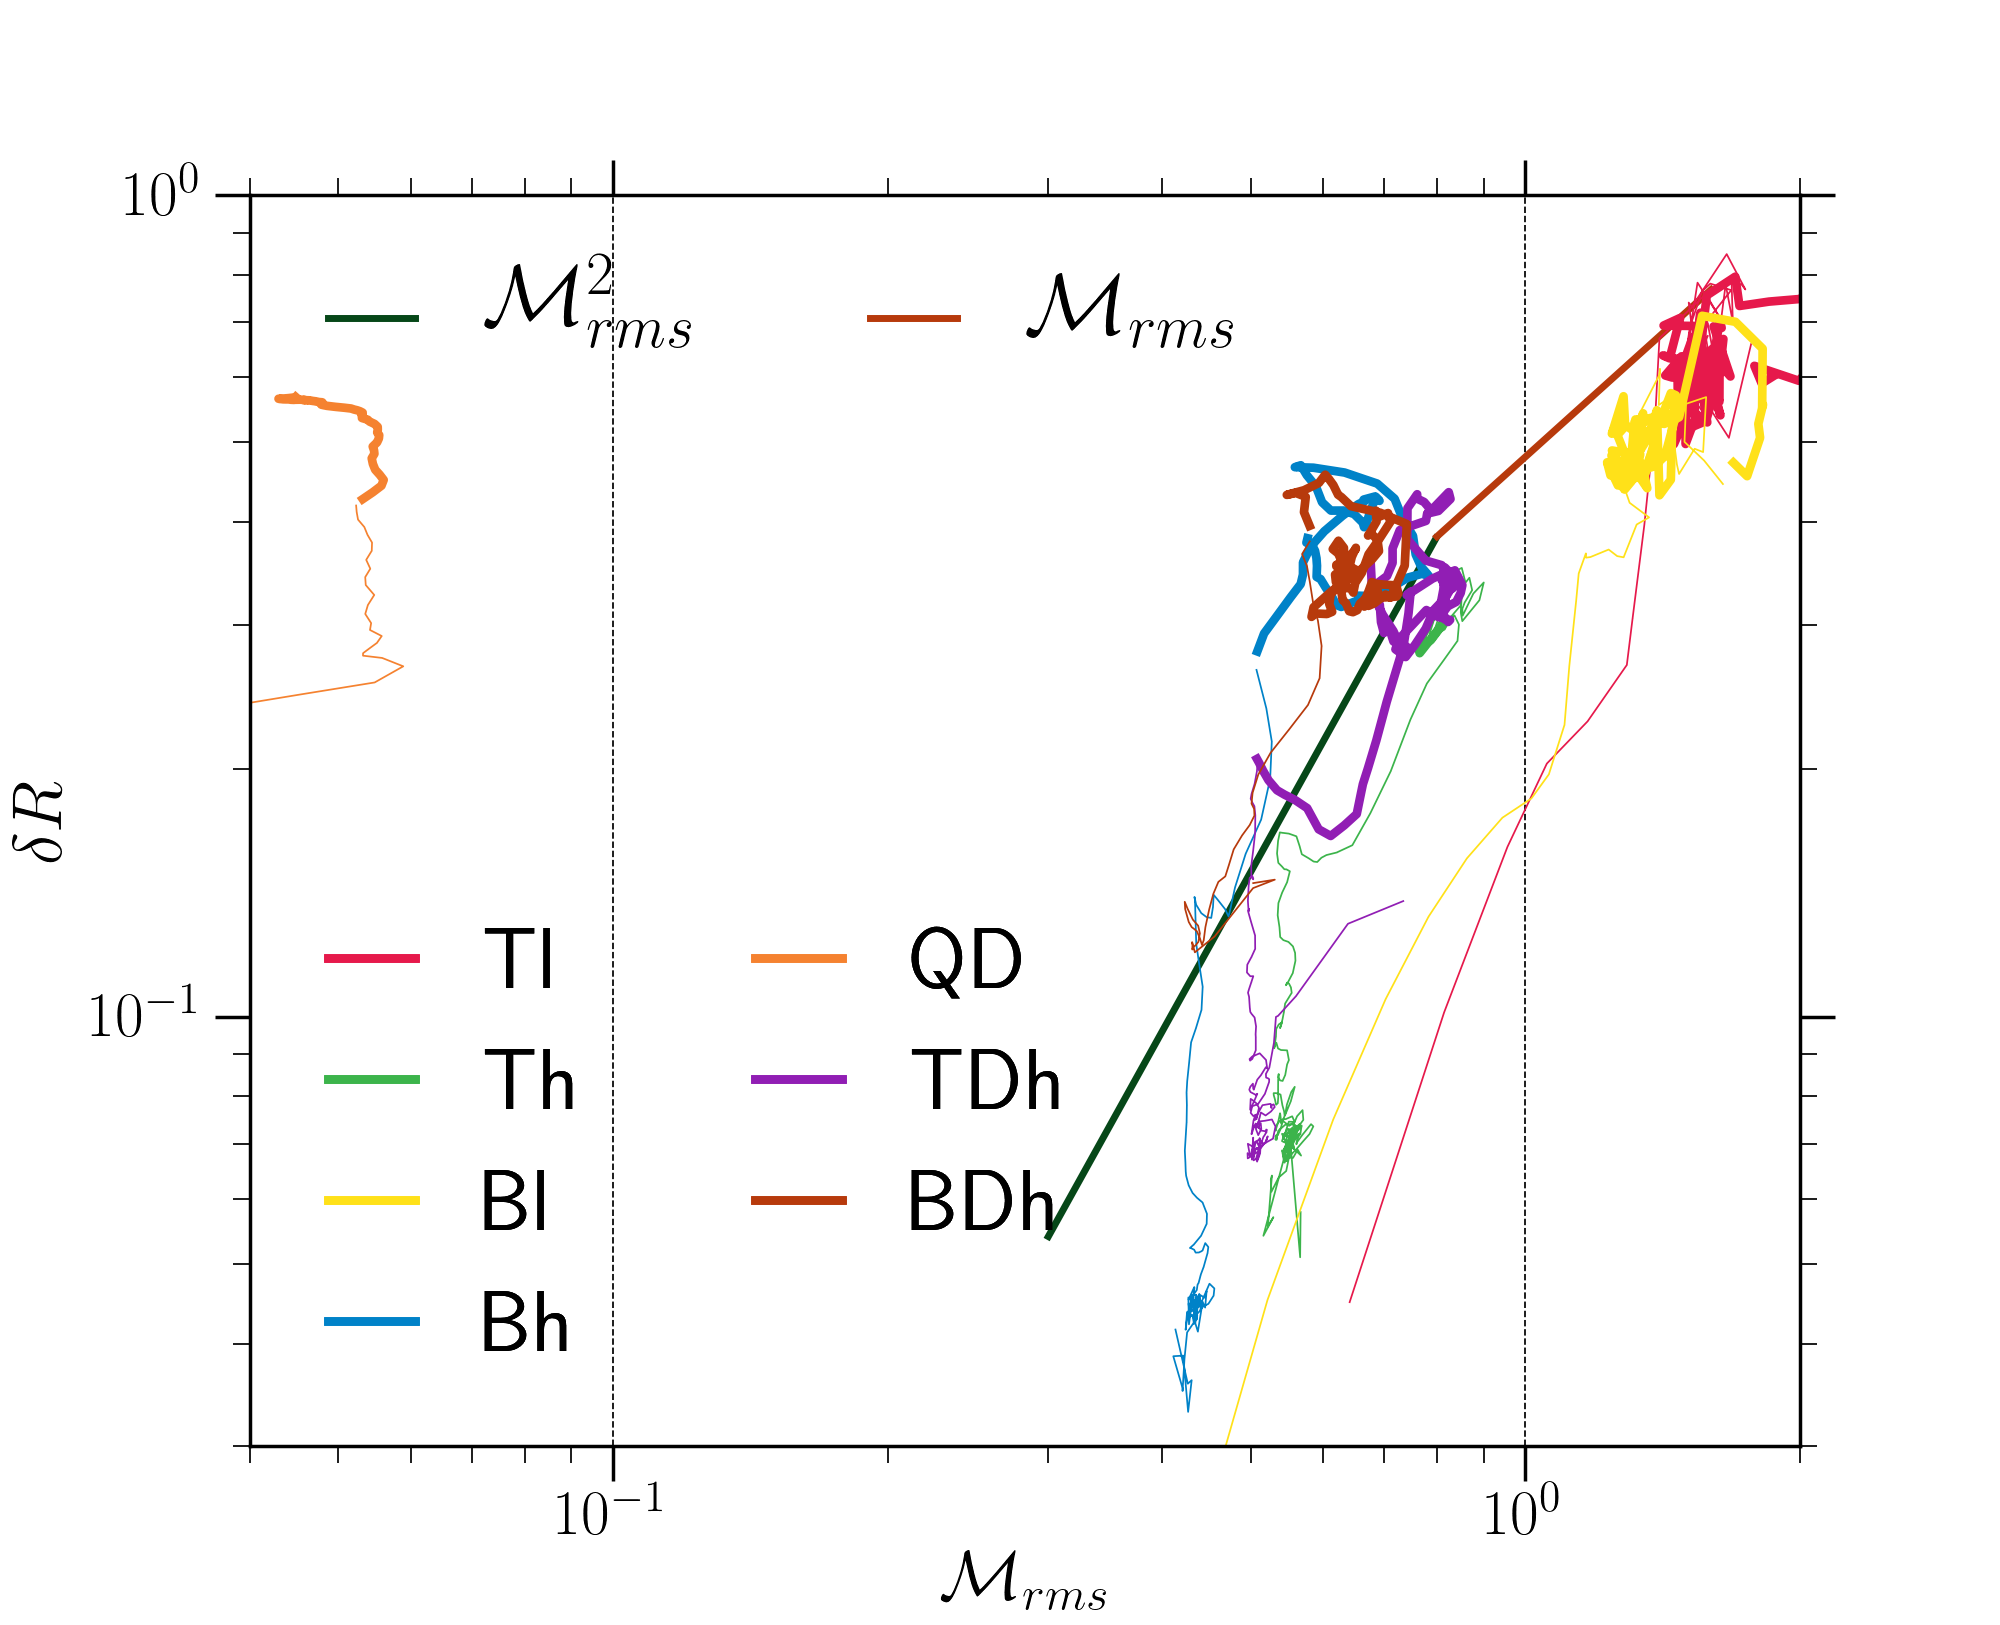
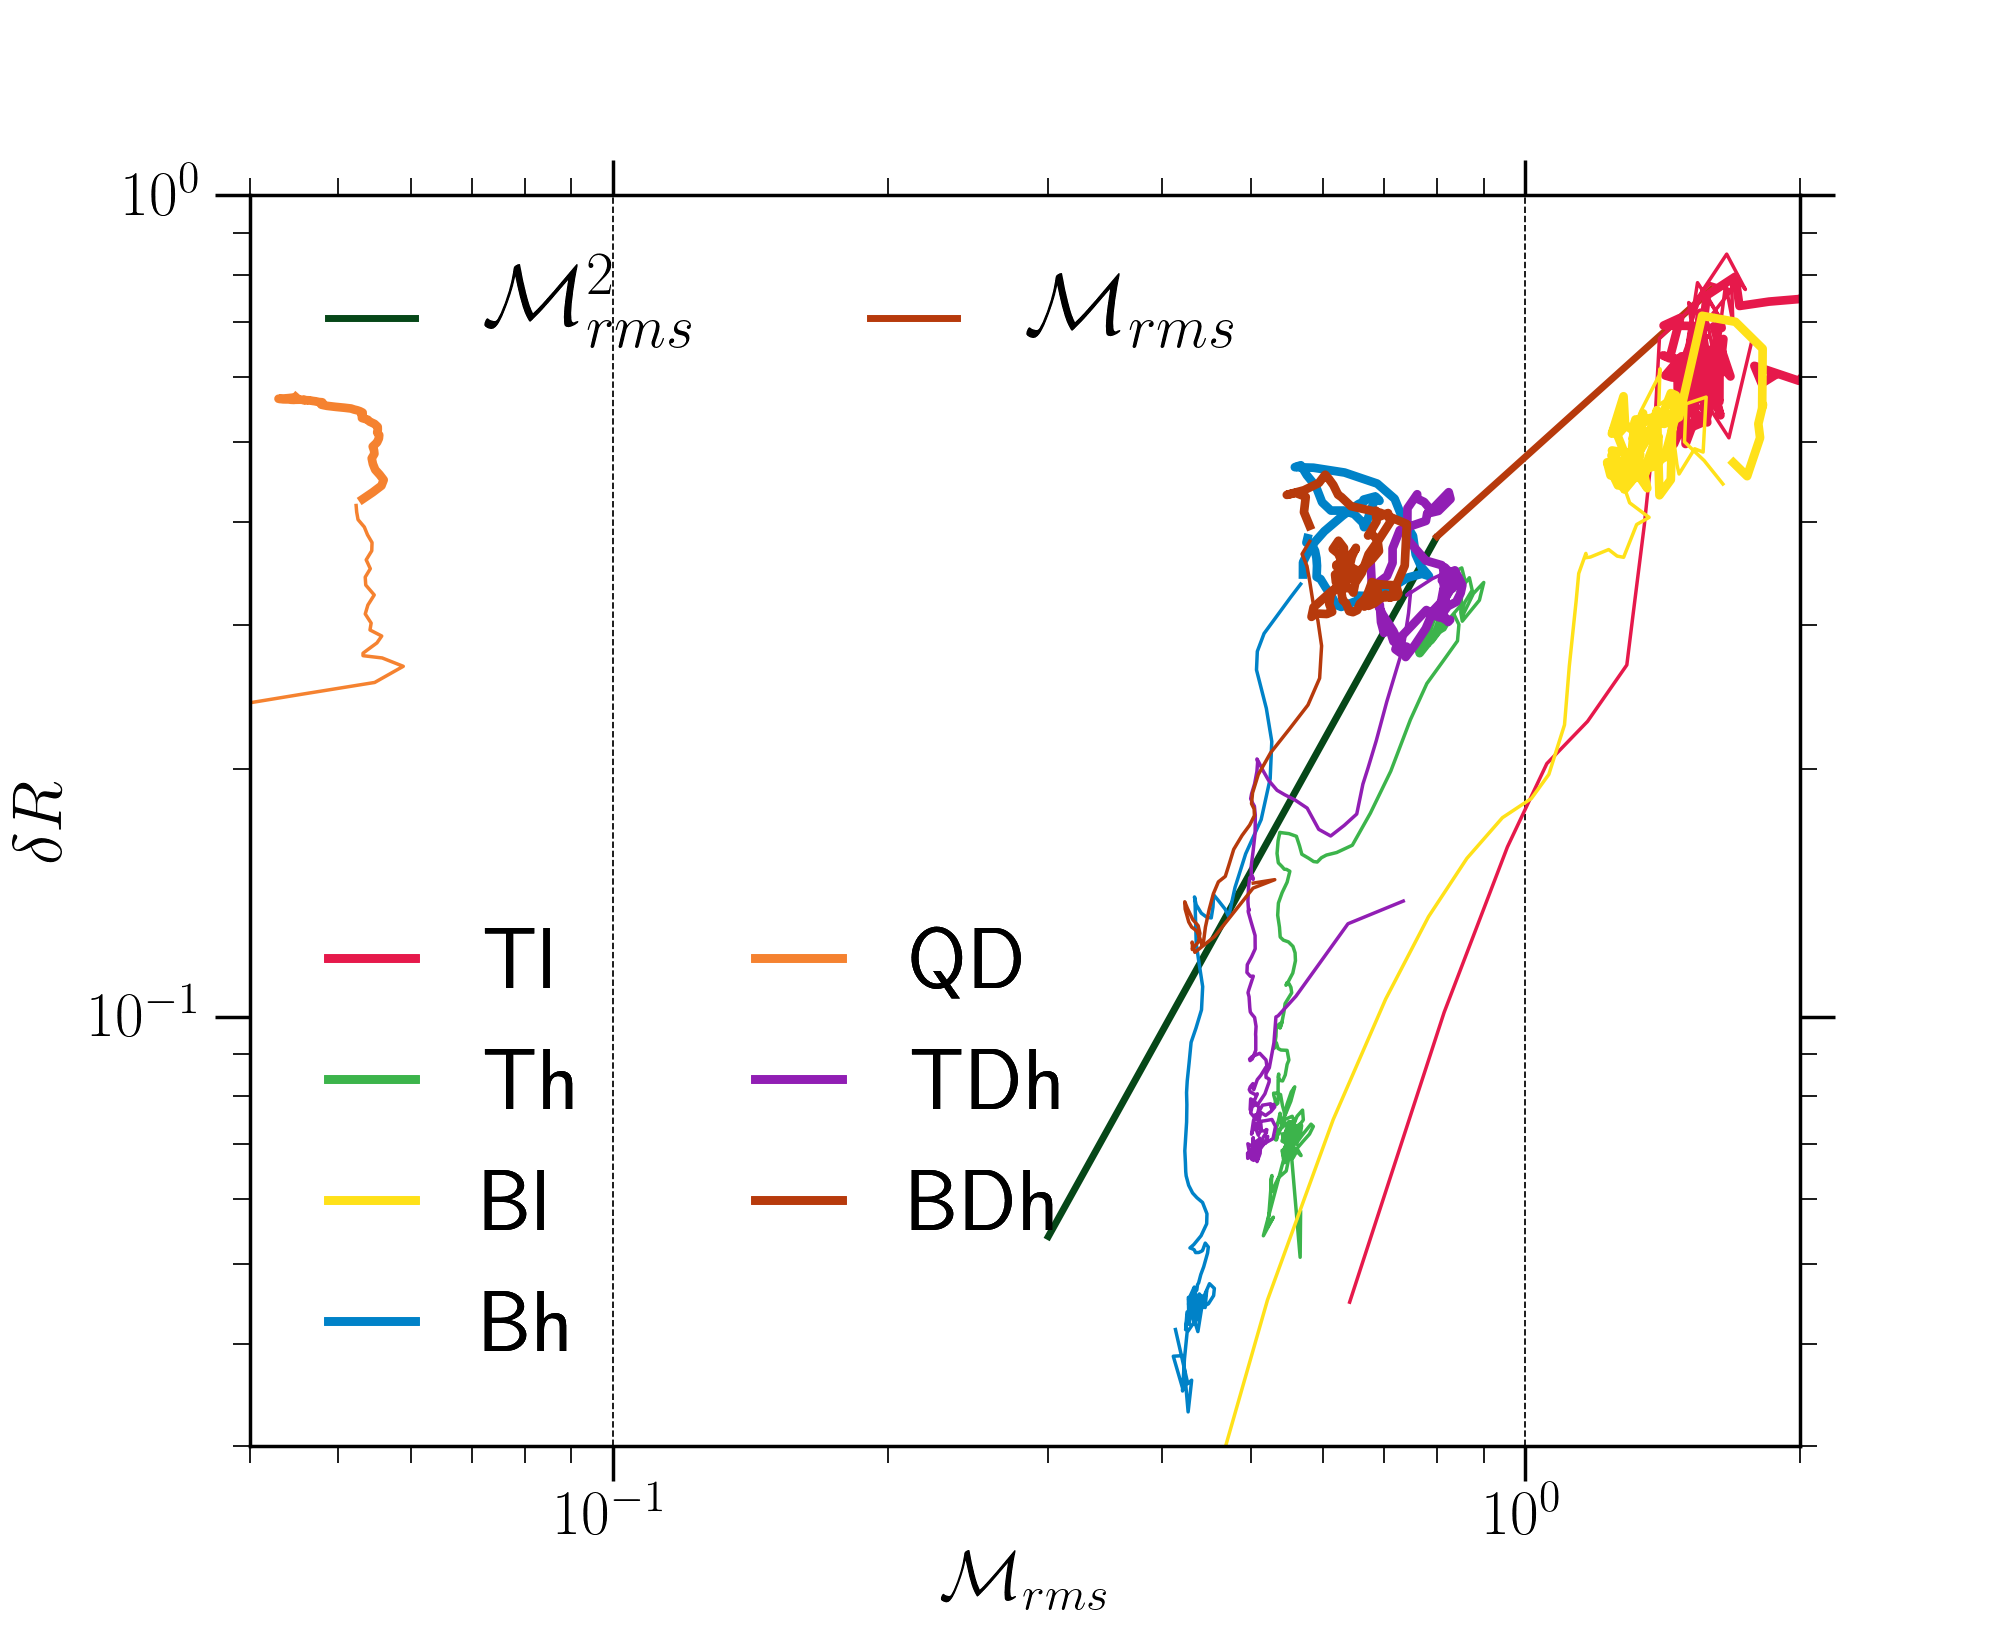
Edited rho-mach plot

diff --git a/rho-mach/density_mach_all.py b/rho-mach/density_mach_all.py
@@ -22,7 +22,7 @@ labels=('Tl', 'Th', 'Bl', 'Bh', 'QD', 'TDh', 'BDh')
 step_size=0.2
 end=np.array((24.8, 53.2, 24., 42.4, 19., 55.4, 31.))
 start=np.ones(end.size)*step_size
-start_time=np.array((10., 51., 10., 30., 6., 35., 10.))
+start_time=np.array((10., 51., 10., 31., 6., 40., 10.))
 #Load data files
 perturb = [None] * (start.size)
 #t_start sets time at which statistical equilibrium has been reached
@@ -69,7 +69,7 @@ for i1 in xrange(0, start.size):
 	data = np.loadtxt(file, skiprows=1)
         #Load data
         #Plot the data
-        perturb1[i1], =ax.plot(data[:,1][:int(start_time[i1]/step_size)],data[:,0][:int(start_time[i1]/step_size)], label=labels[i1], color=colors[i1], marker=".", markeredgecolor='none', markersize=0.1, linewidth=.5)
+        perturb1[i1], =ax.plot(data[:,1][:int(start_time[i1]/step_size)],data[:,0][:int(start_time[i1]/step_size)], label=labels[i1], color=colors[i1], marker=".", markeredgecolor='none', markersize=0.1, linewidth=1.)
         perturb2[i1], =ax.plot(data[:,1][int(start_time[i1]/step_size):],data[:,0][int(start_time[i1]/step_size):], label=labels[i1], color=colors[i1], marker=".", markeredgecolor='none', markersize=0.2, linewidth=2.5)
 
 
